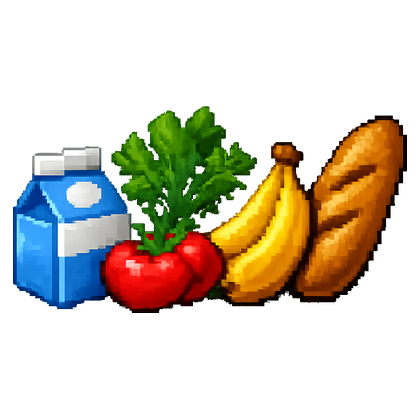
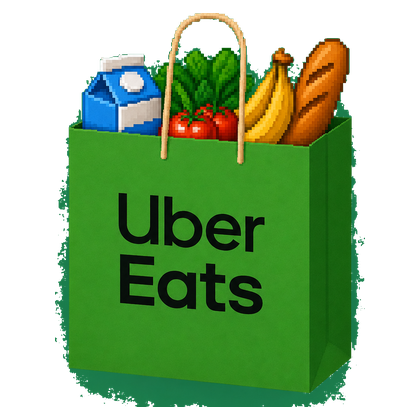
Tile art round: pixel flowers, green grocery bag, yellow delivery box
- Level 1: sub sandwich -> mixed pixel bouquet (flowers pixel.png),
  green card background flood-removed
- Level 5: groceries pile -> green Uber Eats grocery bag
  (green uber bag.png); its app-icon frame/ring needed a multi-pass
  knockout (edge flood + safebox + residual color sweep + despeckle)
- Level 6: green bag -> yellow Uber Eats delivery box
  (uber bag yellow.png), baked checkerboard background removed
- Item names follow (Flowers / Green Bag); tile cache buster to v=6

diff --git a/10ten.html b/10ten.html
@@ -487,7 +487,7 @@ const CONFIG = {
   boardSize: 4,           // grid is N x N
   target: 6,              // level that wins (Uber Delivery Box)
   startTiles: 2,
-  spawn: [ { value: 1, weight: 85 }, { value: 2, weight: 15 } ], // mostly Sandwich, sometimes Coffee
+  spawn: [ { value: 1, weight: 85 }, { value: 2, weight: 15 } ], // mostly Flowers, sometimes Coffee
   maxScore: 150,          // best possible score (also clamps a stored best)
   // efficiency tiers: win within `maxSwipes` -> that score. Fewer swipes = higher. Edit freely.
   scoreTiers: [
@@ -506,15 +506,15 @@ const CONFIG = {
   storageKey: "ubereats.merge.v1",
   tutorialKey: "ubereats.merge.tut",
   // image path per level — drop your renders into assets/uber/<level>.png
-  itemImg: (v) => `assets/uber/${v}.png?v=5`,
+  itemImg: (v) => `assets/uber/${v}.png?v=6`,
   numbersInImage: false,  // images have NO baked numbers — the game draws them (uniform size)
   // name + emoji fallback (shown until the PNG exists)
   items: {
-    1: { name: "Sandwich",      emoji: "🥪" },
+    1: { name: "Flowers",       emoji: "💐" },
     2: { name: "Coffee",        emoji: "☕" },
     3: { name: "Noodles",       emoji: "🍜" },
     4: { name: "Smoothie",      emoji: "🥤" },
-    5: { name: "Groceries",     emoji: "🛒" },
+    5: { name: "Green Bag",     emoji: "🛍" },
     6: { name: "Uber Eats Bag", emoji: "🛍" }
   }
 };
